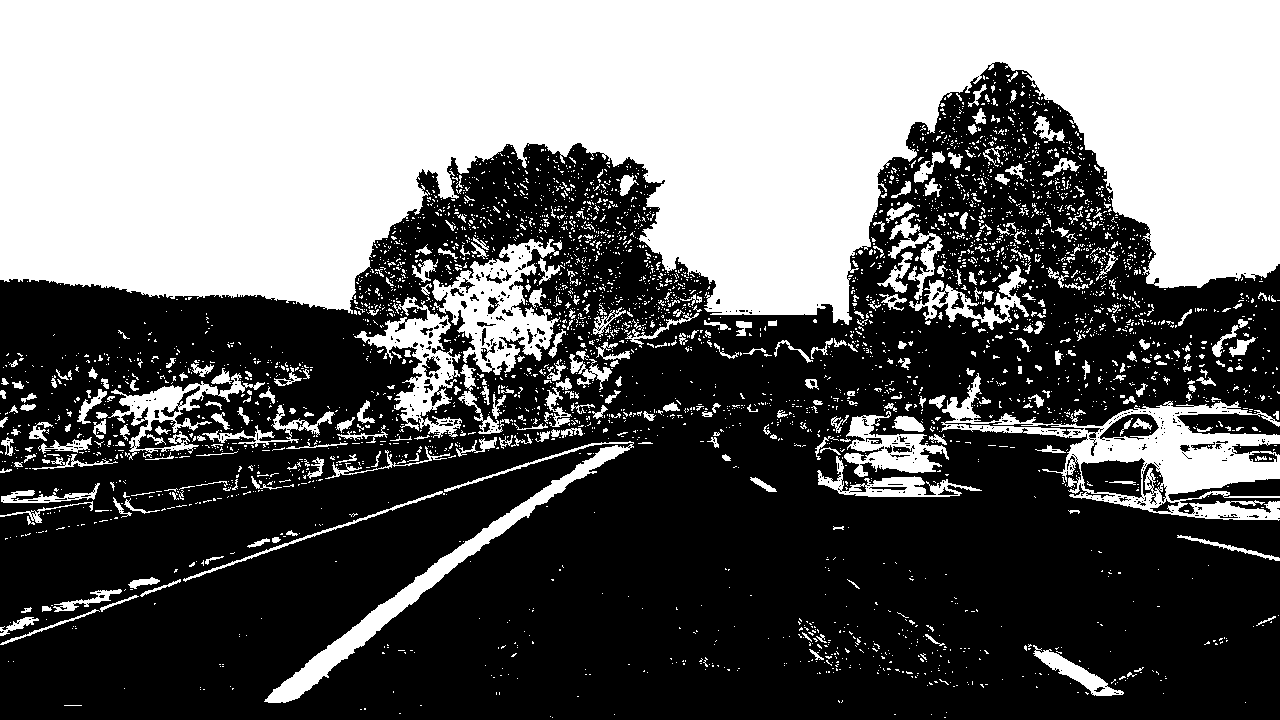
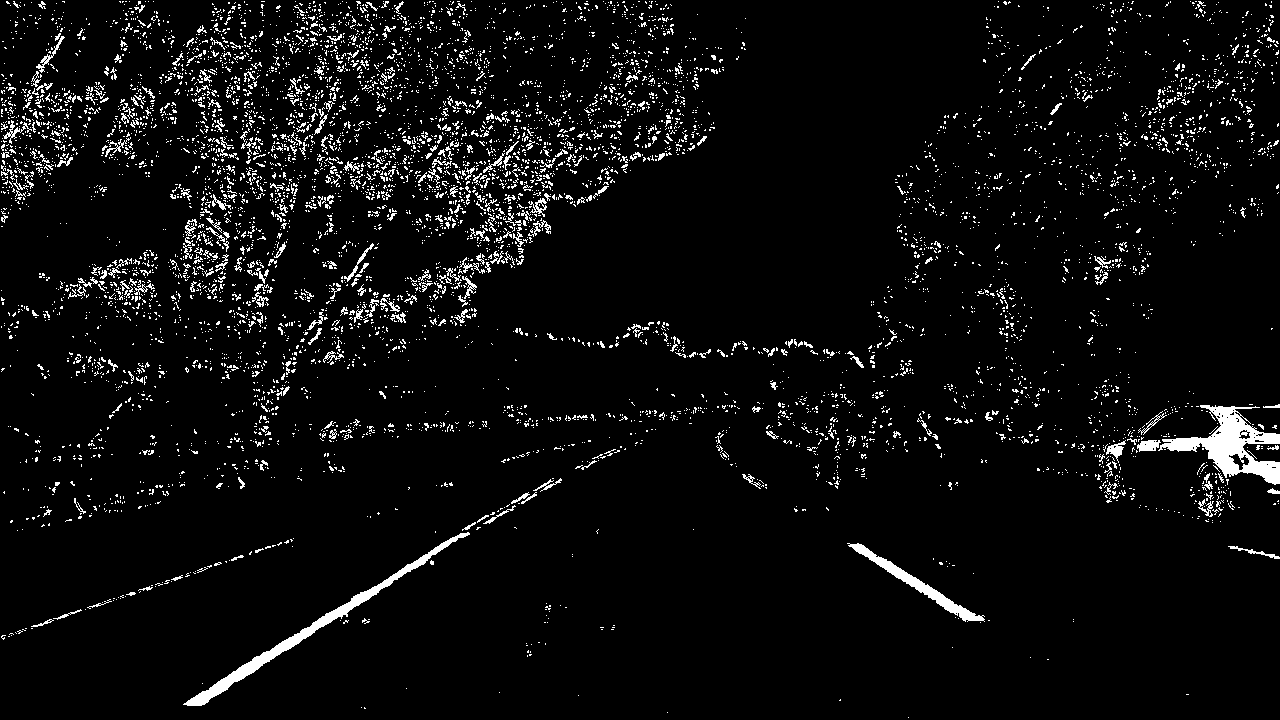
polyfit seems okay

diff --git a/Solution.py b/Solution.py
@@ -56,19 +56,28 @@ class LaneFinder:
 
         grad_combined = self.getGradientImgCombined(undist)
 
-        color_combined = self.getColorCombined(undist, gray_thresh=(190, 255), r_thresh=(210, 255))
+        color_combined = self.getColorCombined(undist)
 
         # Combine the two binary thresholds
         combined_binary = np.zeros_like(grad_combined)
         combined_binary[(grad_combined == 1) | (color_combined == 1)] = 1
+        # combined_binary[(color_combined == 1)] = 1
+
+        plt.imshow(combined_binary, cmap='gray')
+        plt.show()
 
         if not self.quiet:
             mpimg.imsave(self.out_img_folder + 'binary.png', combined_binary, cmap='gray')
 
         self.getWarped(combined_binary)
+        plt.imshow(self.binary_warped, cmap='gray')
+        plt.show()
+        # exit()
         if not self.quiet:
-            mpimg.imsave(self.out_img_folder + 'birdseye_view.png', self.binary_warped, cmap='gray')
-        exit()
+            img_size = (undist.shape[1], undist.shape[0])
+            warped = cv2.warpPerspective(undist, self.M, img_size, flags=cv2.INTER_LINEAR)
+            mpimg.imsave(self.out_img_folder + 'birds-eye_view.png', warped, cmap='gray')
+            mpimg.imsave(self.out_img_folder + 'bird-seye_view_binary.png', self.binary_warped, cmap='gray')
 
         leftx_base, rightx_base = self.getLaneStartX()
 
@@ -188,16 +197,17 @@ class LaneFinder:
         direction = self.dir_threshold(undist, sobel_kernel=ksize, thresh=(0, np.pi/2))
 
         combined = np.zeros_like(direction)
-        combined[((gradx == 1) & (grady == 1)) | ((magn == 1) & (direction == 1))] = 1
+        # combined[((gradx == 1) & (grady == 1)) | ((magn == 1) & (direction == 1))] = 1
+        combined[((gradx == 1) & (grady == 1))] = 1
         return combined
 
-    def getColorCombined(self, undist,
-                         gray_thresh=(180, 255),
-                         r_thresh=(230, 255)):
-    #     gray = cv2.cvtColor(undist, cv2.COLOR_RGB2GRAY)
-    #     gray_binary = np.zeros_like(gray)
-    #     gray_binary[(gray > gray_thresh[0]) & (gray <= gray_thresh[1])] = 1
+    def getColorCombined(self, undist):
+        gray_thresh=(180, 255)
+        gray = cv2.cvtColor(undist, cv2.COLOR_RGB2GRAY)
+        gray_binary = np.zeros_like(gray)
+        gray_binary[(gray > gray_thresh[0]) & (gray <= gray_thresh[1])] = 1
 
+        r_thresh=(220, 255)
         R = undist[:,:,0]
         r_binary = np.zeros_like(R)
         r_binary[(R > r_thresh[0]) & (R <= r_thresh[1])] = 1
@@ -207,15 +217,14 @@ class LaneFinder:
         L = hls[:,:,1]
         S = hls[:,:,2]
 
-        thresh = (90, 255)
+        thresh = (100, 255)
         s_binary = np.zeros_like(S)
         s_binary[(S > thresh[0]) & (S <= thresh[1])] = 1
 
         combined = np.zeros_like(r_binary)
-    #     combined[((gray_binary == 1) | (r_binary == 1))] = 1
-    #     combined[((r_binary == 1) & (s_binary == 1))] = 1
-        combined[((s_binary == 1))] = 1
-    #     combined[((r_binary == 1))] = 1
+        combined[((s_binary == 1) & (r_binary == 1))] = 1
+        # combined[((r_binary == 1))] = 1
+        # combined[((s_binary == 1))] = 1
 
         return combined
 
@@ -223,20 +232,17 @@ class LaneFinder:
     def getWarped(self, img):
         img_size = (img.shape[1], img.shape[0])
 
-        src = np.float32([(590, 450), (690, 450), (1060, 690), (250, 690)])
+        src = np.float32([(590, 440), (690, 440), (1060, 690), (250, 690)])
         dst = np.float32([(250, 0), (1060, 0), (1060, 690), (250, 690)])
 
-        M = cv2.getPerspectiveTransform(src, dst)
+        self.M = cv2.getPerspectiveTransform(src, dst)
         self.Minv = cv2.getPerspectiveTransform(dst, src)
 
-        self.binary_warped = cv2.warpPerspective(img, M, img_size, flags=cv2.INTER_LINEAR)
+        self.binary_warped = cv2.warpPerspective(img, self.M, img_size, flags=cv2.INTER_LINEAR)
 
 
     def getLaneStartX(self):
-        histogram = np.sum(self.binary_warped[self.binary_warped.shape[0]//2:,:], axis=0)
-        # if not self.quiet:
-        #     plt.plot(histogram)
-        #     plt.show()
+        histogram = np.sum(self.binary_warped[self.binary_warped.shape[0]//3:,:], axis=0)
 
         # Find the peak of the left and right halves of the histogram
         # These will be the starting point for the left and right lines
@@ -245,28 +251,19 @@ class LaneFinder:
         left_half = histogram[:midpoint]
         right_half = histogram[midpoint:]
 
-        count = 50
+        count = 30
 
         l_tmp = left_half.argsort()[-count:][::-1]
         r_tmp = right_half.argsort()[-count:][::-1] + midpoint
-        print(l_tmp)
-        print(r_tmp)
 
         leftx_base = np.average(l_tmp)
         rightx_base = np.average(r_tmp)
 
-        # TODO: use several points
-        # leftx_base = np.argmax(histogram[:midpoint])
-        # rightx_base = np.argmax(histogram[midpoint:]) + midpoint
-
-
-        print(leftx_base)
-        print(rightx_base)
         return leftx_base, rightx_base
 
     def getPolynomials(self, leftx_base, rightx_base):
         # Choose the number of sliding windows
-        nwindows = 9
+        nwindows = 20
         # Set height of windows
         window_height = np.int(self.binary_warped.shape[0]/nwindows)
         # Identify the x and y positions of all nonzero pixels in the image
@@ -279,12 +276,14 @@ class LaneFinder:
         # Set the width of the windows +/- margin
         self.margin = 100
         # Set minimum number of pixels found to recenter window
-        minpix = 100
+        minpix = 1000
         # Create empty lists to receive left and right lane pixel indices
         self.left_lane_inds = []
         self.right_lane_inds = []
 
         # Step through the windows one by one
+        left_deltas = []
+        right_deltas = []
         for window in range(nwindows):
             # Identify window boundaries in x and y (and right and left)
             win_y_low = self.binary_warped.shape[0] - (window+1)*window_height
@@ -293,17 +292,26 @@ class LaneFinder:
             win_xleft_high = leftx_current + self.margin
             win_xright_low = rightx_current - self.margin
             win_xright_high = rightx_current + self.margin
+
             # Identify the nonzero pixels in x and y within the window
             good_left_inds = ((self.nonzeroy >= win_y_low) & (self.nonzeroy < win_y_high) & (self.nonzerox >= win_xleft_low) & (self.nonzerox < win_xleft_high)).nonzero()[0]
             good_right_inds = ((self.nonzeroy >= win_y_low) & (self.nonzeroy < win_y_high) & (self.nonzerox >= win_xright_low) & (self.nonzerox < win_xright_high)).nonzero()[0]
-            # Append these indices to the lists
-            self.left_lane_inds.append(good_left_inds)
-            self.right_lane_inds.append(good_right_inds)
-            # If you found > minpix pixels, recenter next window on their mean position
+            # self.left_lane_inds.append(good_left_inds)
+            # self.right_lane_inds.append(good_right_inds)
+            # If you found > minpix pixels, recenter next window on their mean position and append these indices to the lists
             if len(good_left_inds) > minpix:
-                leftx_current = np.int(np.mean(self.nonzerox[good_left_inds]))
+                delta = np.int(np.mean(self.nonzerox[good_left_inds])) - leftx_current
+                left_deltas.append(delta)
+                self.left_lane_inds.append(good_left_inds)
+            if len(left_deltas) > 0:
+                leftx_current += np.mean(left_deltas)
+
             if len(good_right_inds) > minpix:
-                rightx_current = np.int(np.mean(self.nonzerox[good_right_inds]))
+                delta = np.int(np.mean(self.nonzerox[good_right_inds])) - rightx_current
+                right_deltas.append(delta)
+                self.right_lane_inds.append(good_right_inds)
+            if len(right_deltas) > 0:
+                rightx_current += np.mean(right_deltas)
 
         # Concatenate the arrays of indices
         self.left_lane_inds = np.concatenate(self.left_lane_inds)
@@ -393,7 +401,7 @@ class LaneFinder:
 
 
 laneFinder = LaneFinder()
-img = mpimg.imread('test_images/test1.jpg')
+img = mpimg.imread('test_images/test5.jpg')
 result = laneFinder.processImage(img, quiet=False)
 
 plt.imshow(result)
